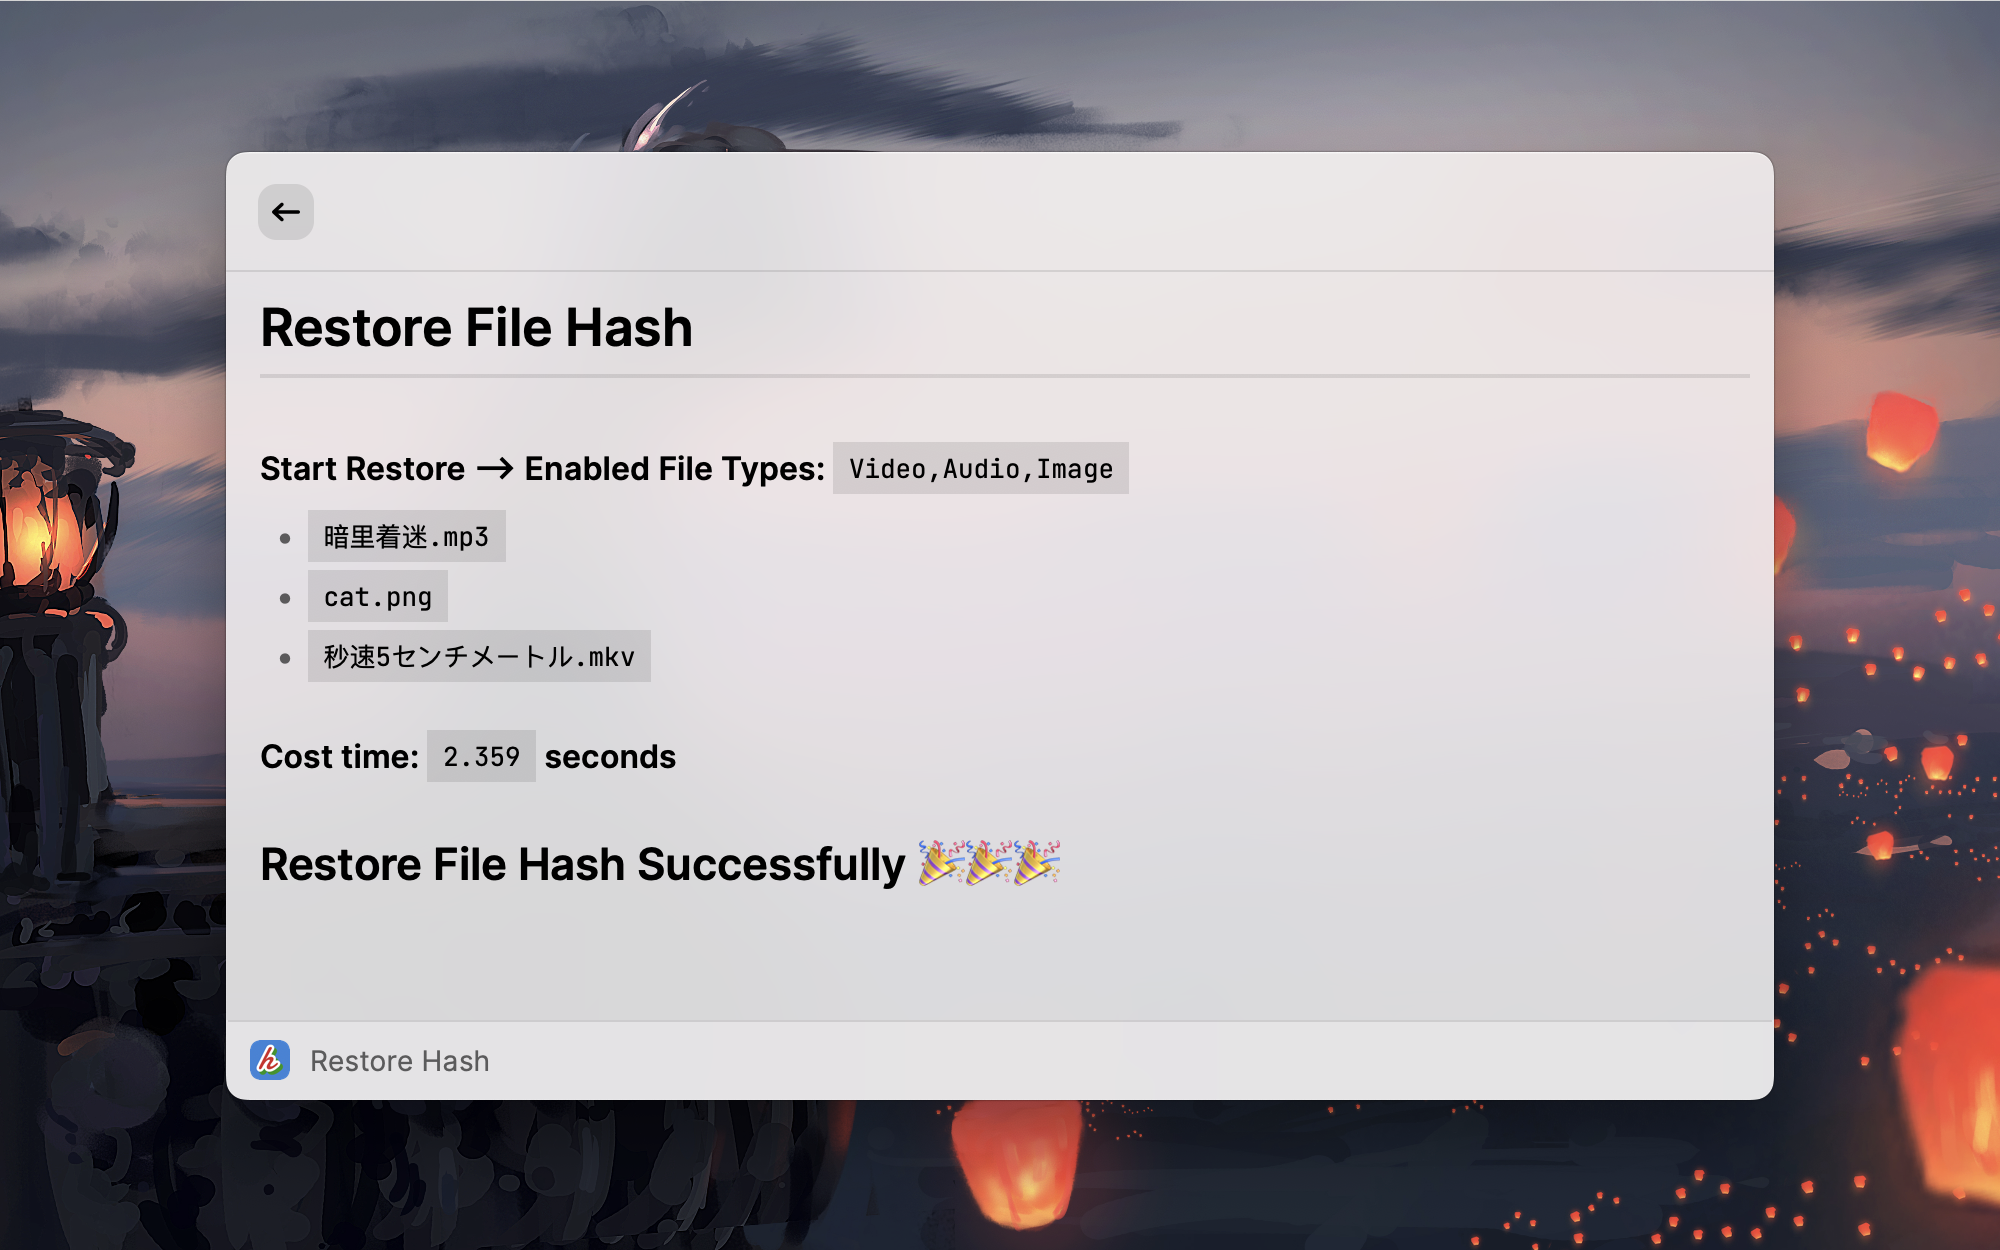
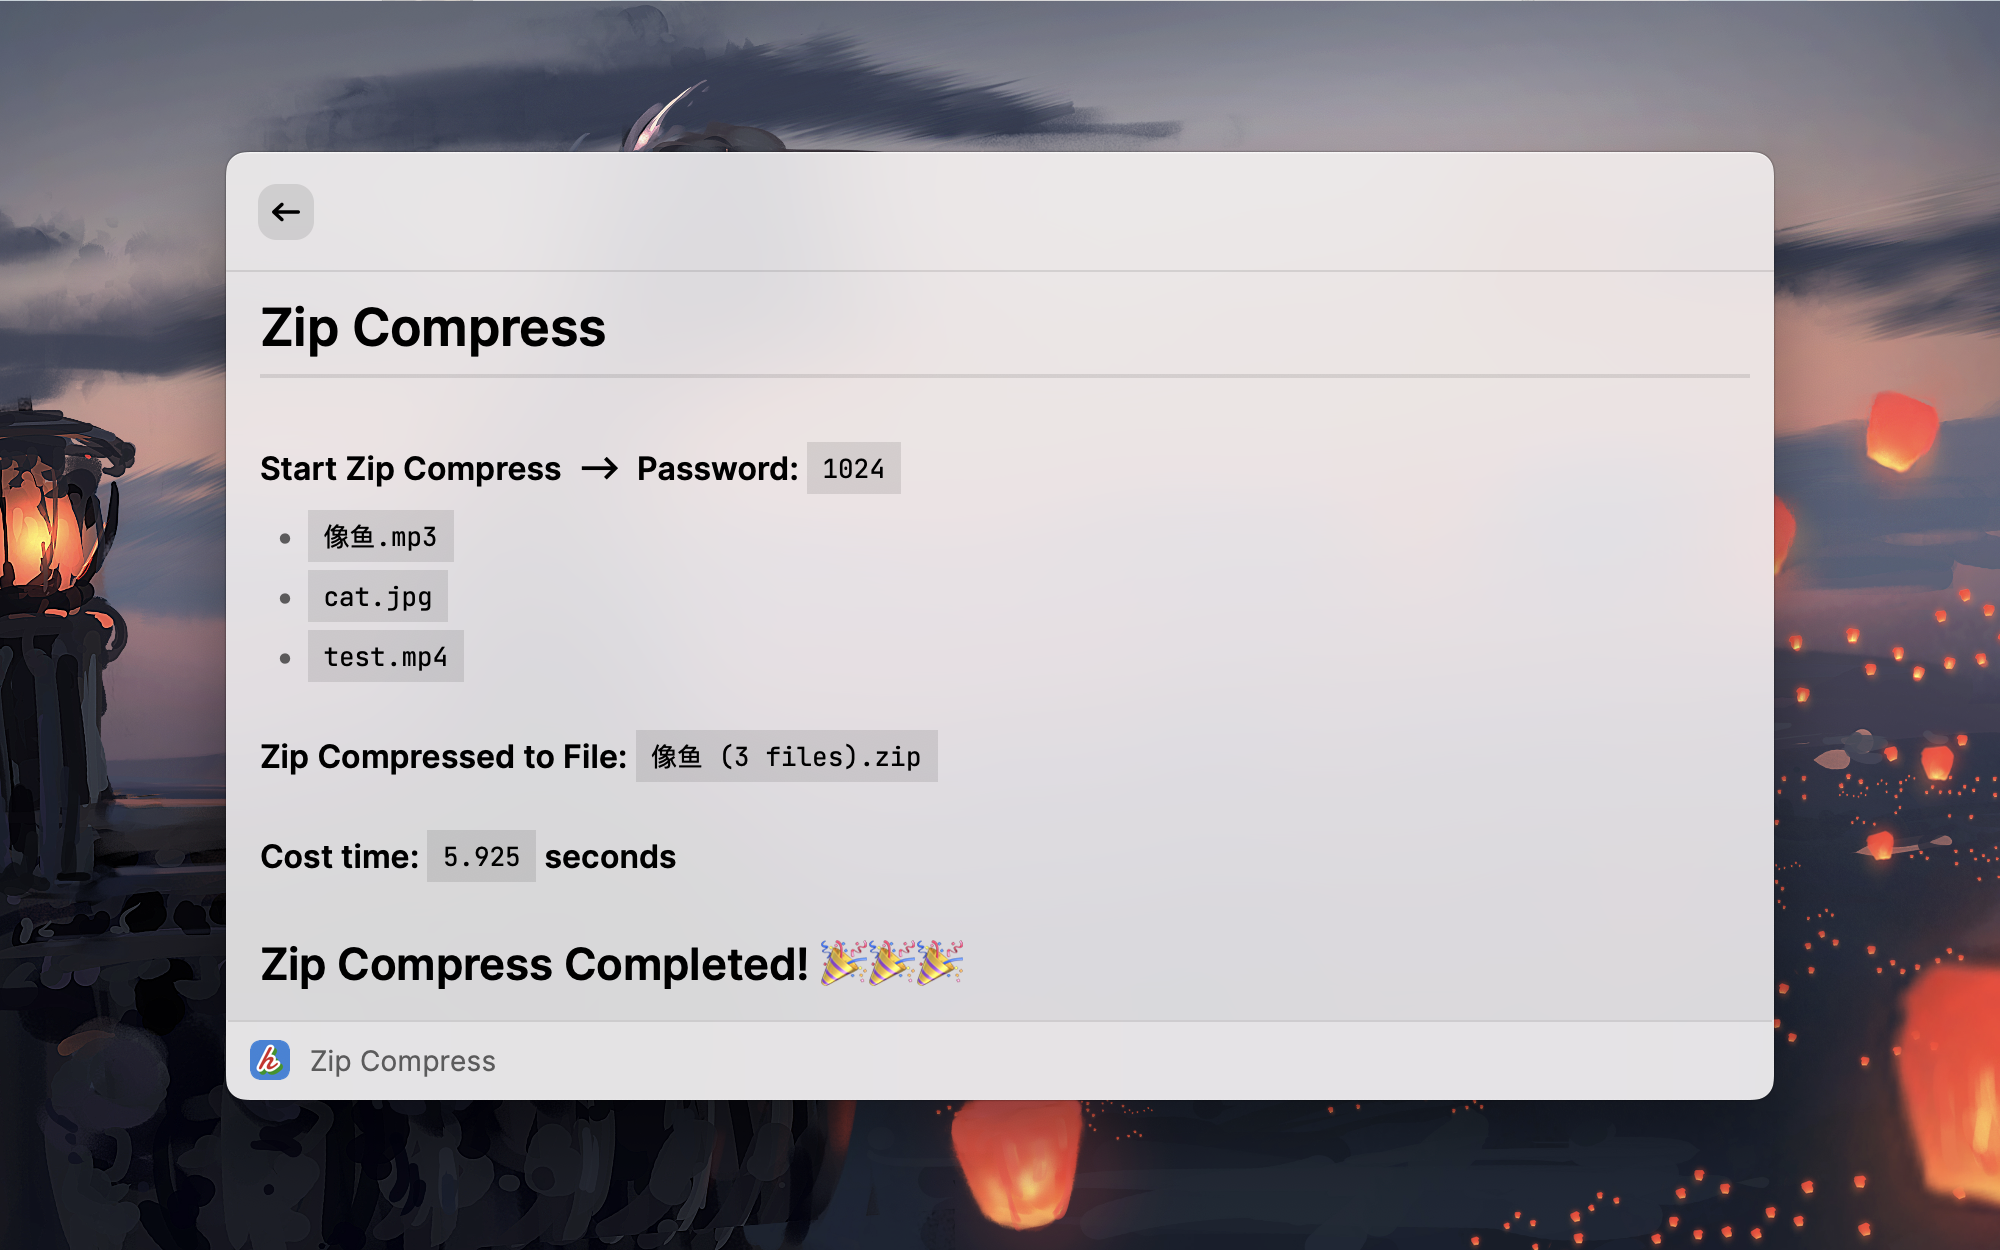
docs: update README

diff --git a/README.md b/README.md
@@ -2,16 +2,21 @@
 
 Batch modify the hash of media files, which can be simply used for uploading online disk to prevent censorship. This is a Raycast extension of [modify_videos_md5](https://github.com/tisfeng/modify_videos_md5).
 
+But sometimes, just modifying the hash of the file is not enough to bypass the review, such as manual review, or video content recognition technology, so I added two commands to facilitate compressing and extracting files with encryption: `Zip Compress` and `Zip Extract`.
+
 ## Features
 
 - `Modify Hash` command is used to modify the hash of the selected file, `Restore Hash` command is used to restore them.
 - Support file types: Video, Audio, Image, default enable Video type.
 - Support recursive traversal of the file directory.
 - Show modify file md5 log by default, turn off `Show MD5 Log` can save time when there are large video files.
+- `Zip Compress` command is used to encrypt and compress the selected file with zip, `Zip Extract` command is used to extract.
 
 ---
 
 批量修改媒体文件的哈希值，可简单用于上传网盘防审查。这是一个 [modify_videos_md5](https://github.com/tisfeng/modify_videos_md5) 的 Raycast 扩展。
+
+但有时候，仅仅修改文件的哈希值并不足以绕过审查，比如人工审查，或视频内容识别等技术，所以我又添加了方便对文件进行加密压缩和提取的两个命令：`Zip Compress` 和 `Zip Extract`。
 
 ## 功能
 
@@ -19,6 +24,7 @@ Batch modify the hash of media files, which can be simply used for uploading onl
 - 支持文件类型：视频、音频、图片，默认开启视频类型。
 - 支持递归遍历文件目录。
 - 默认显示修改文件 md5 日志，关闭 `Show MD5 Log` 可节省大视频文件的时间。
+- `Zip Compress` 命令用于对选中文件进行 zip 加密压缩，`Zip Extract` 命令用于提取。
 
 ![modify-hash-1](https://raw.githubusercontent.com/tisfeng/ImageBed/main/uPic/modify-hash-1-1666519989.png)
 
@@ -31,3 +37,11 @@ Batch modify the hash of media files, which can be simply used for uploading onl
 ![modify-hash-4](https://raw.githubusercontent.com/tisfeng/ImageBed/main/uPic/modify-hash-4-1666520023.png)
 
 ![modify-hash-5-1666520357](https://raw.githubusercontent.com/tisfeng/ImageBed/main/uPic/modify-hash-5-1666520357.png)
+
+### Zip Compress
+
+![modify-hash-5](https://raw.githubusercontent.com/tisfeng/ImageBed/main/uPic/modify-hash-5-1666884124.png)
+
+### Zip Extract
+
+![modify-hash-6](https://raw.githubusercontent.com/tisfeng/ImageBed/main/uPic/modify-hash-6-1666884159.png)
